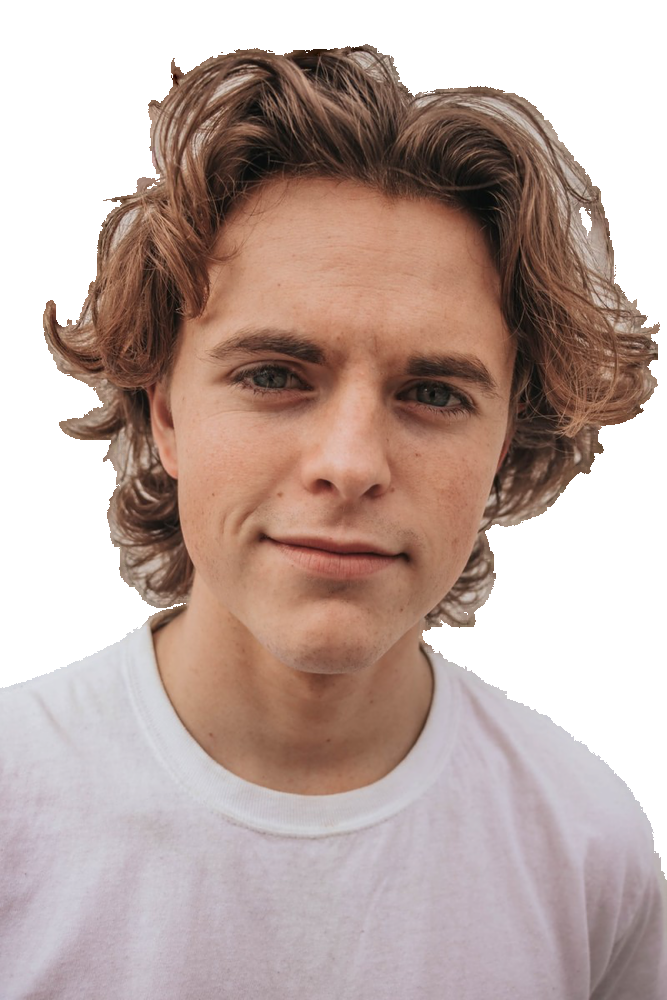
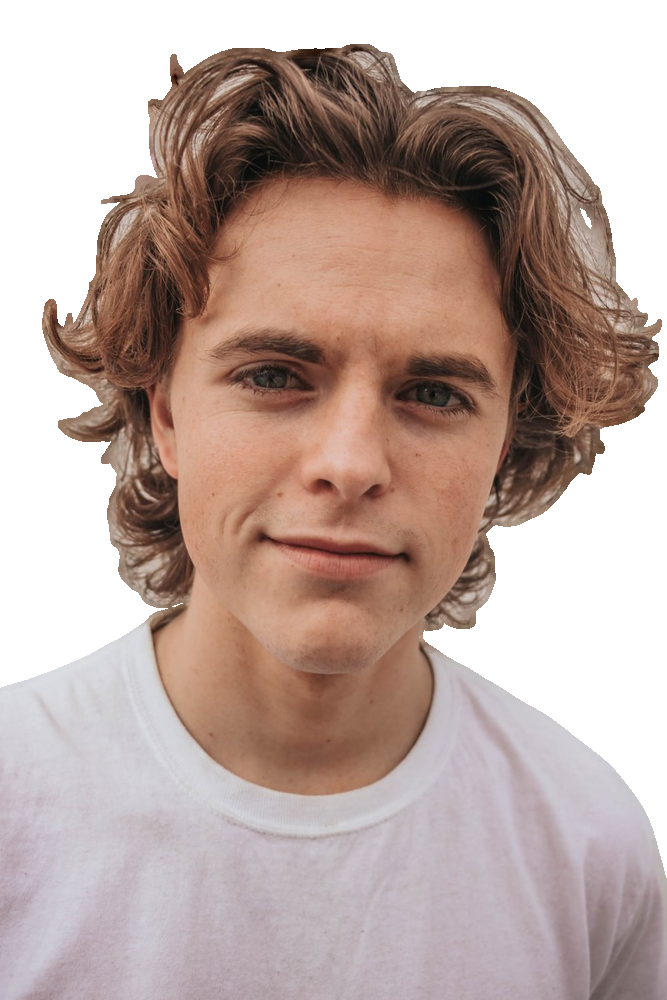
added custom end opacity function

diff --git a/src/rembg/bg.py b/src/rembg/bg.py
@@ -78,20 +78,29 @@ def alpha_matting_cutout(
     trimap_normalized = trimap / 255.0
 
     alpha = estimate_alpha_cf(img_normalized, trimap_normalized)
-    foreground = estimate_foreground_ml(img_normalized, alpha, gradient_weight=0.01)
-    cutout = stack_images(foreground, alpha)
+    foreground = estimate_foreground_ml(img_normalized, alpha, gradient_weight=0.005)
+    cutout = stack_images(foreground, trimap)
 
     cutout = np.clip(cutout * 255, 0, 255).astype(np.uint8)
 
     
-    
-    super_threshold_indices = cutout[:, :, 3] <= 10
-    cutout[:, :, 3][super_threshold_indices] = 0
+    opacity = cutout[:, :, 3]
+    super_threshold_indices_low = cutout[:, :, 3] <= 20
+    super_threshold_indices_high = cutout[:, :, 3] >= 230
+    opacity[super_threshold_indices_low] = 0
+    opacity[super_threshold_indices_high] = 255
 
+    mid = (cutout[:, :, 3] > 180) & (cutout[:, :, 3] < 230)
+    opacity[mid] += 25
 
+    mid = (cutout[:, :, 3] > 100) & (cutout[:, :, 3] <= 180)
+    opacity[mid] += 40
 
-    super_threshold_indices = cutout[:, :, 3] > 10
-    cutout[:, :, 3][super_threshold_indices] = 255
+    mid = (cutout[:, :, 3] > 50) & (cutout[:, :, 3] <= 100)
+    opacity[mid] += 60
+
+    mid = (cutout[:, :, 3] > 20) & (cutout[:, :, 3] <= 50)
+    opacity[mid] += 110
 
     cutout = Image.fromarray(cutout)
     cutoutImg = Image.fromarray(np.copy(cutout))
